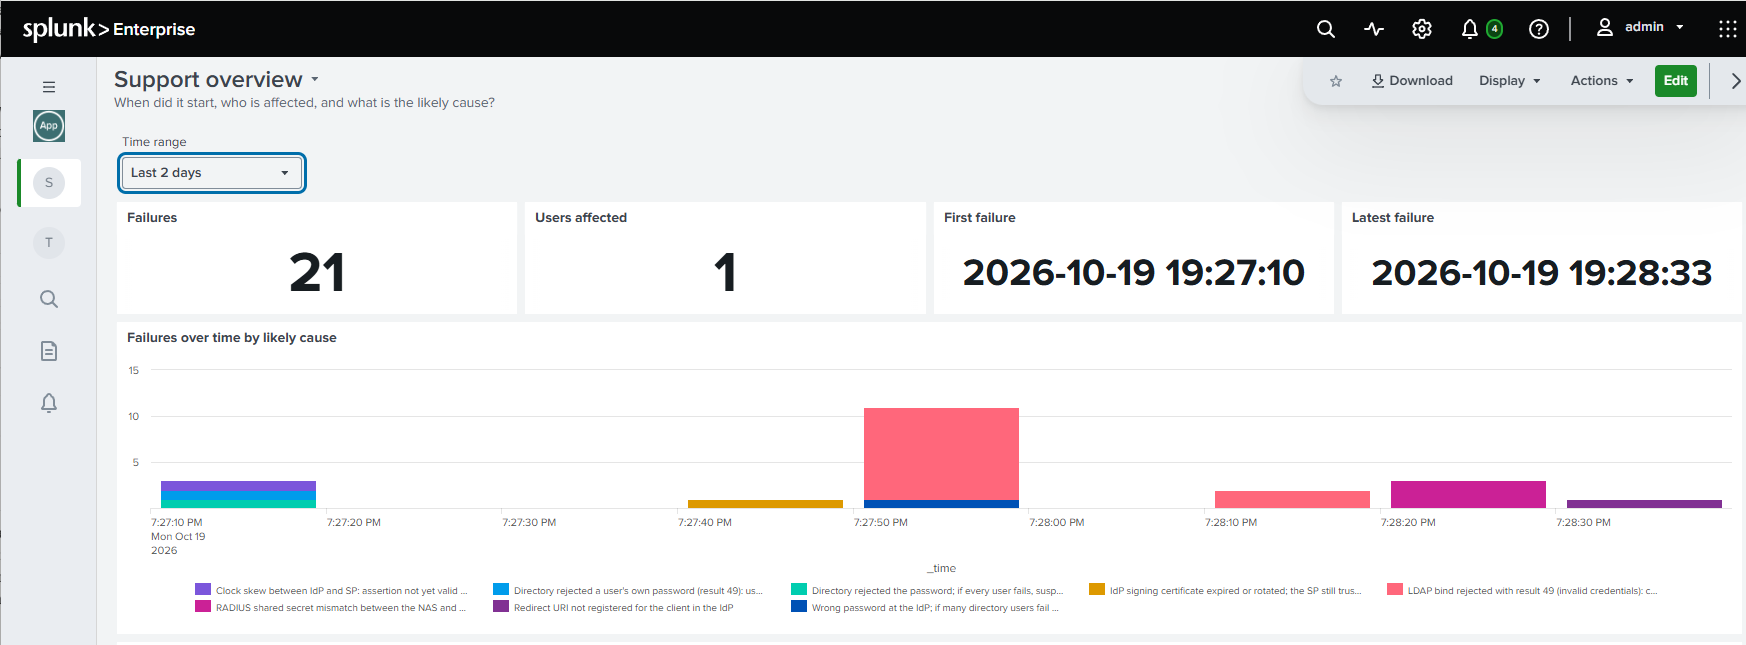
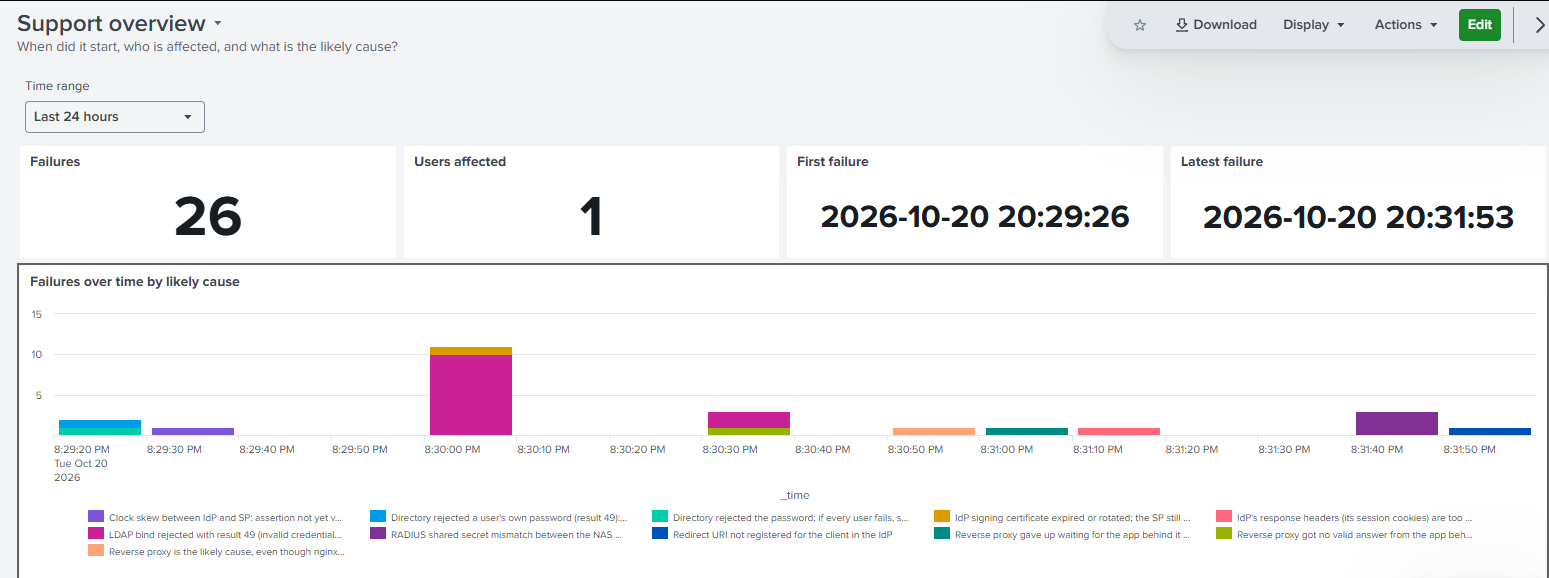
README: new screenshots, the proxy row, and why the ports are 18xxx
Retaken screenshots with the reverse proxy scenarios, plus proxy.png of
the proxy row with its caption. The ports are Splunk's defaults plus
10000.

diff --git a/README.md b/README.md
@@ -23,6 +23,9 @@ you can try it without the lab.
 ![Who is affected?](docs/screenshots/who-is-affected.png)
 *Who is affected? End users and service accounts, with RADIUS rejects versus no reply and LDAP result 49 below.*
 
+![Reverse proxy](docs/screenshots/proxy.png)
+*Reverse proxy: responses over time by status, and each 502, 504 or 429 with its likely cause, route and runbook.*
+
 The screenshots show real identity-lab data. Times are shown in the Splunk user's time zone (UK time in these screenshots).
 
 ## Try it in 5 minutes
@@ -51,8 +54,8 @@ with the last 4 hours.
 
 When you've finished, `docker compose down -v` removes the stack and its
 data. Everything listens on 127.0.0.1 only, on ports 18000 (web), 18088
-(HEC) and 18089 (management). That leaves a Splunk you already run on 8000
-and 8088 alone.
+(HEC) and 18089 (management): Splunk's defaults plus 10000, so they don't
+clash with a Splunk you already run.
 
 ## What you see
 
